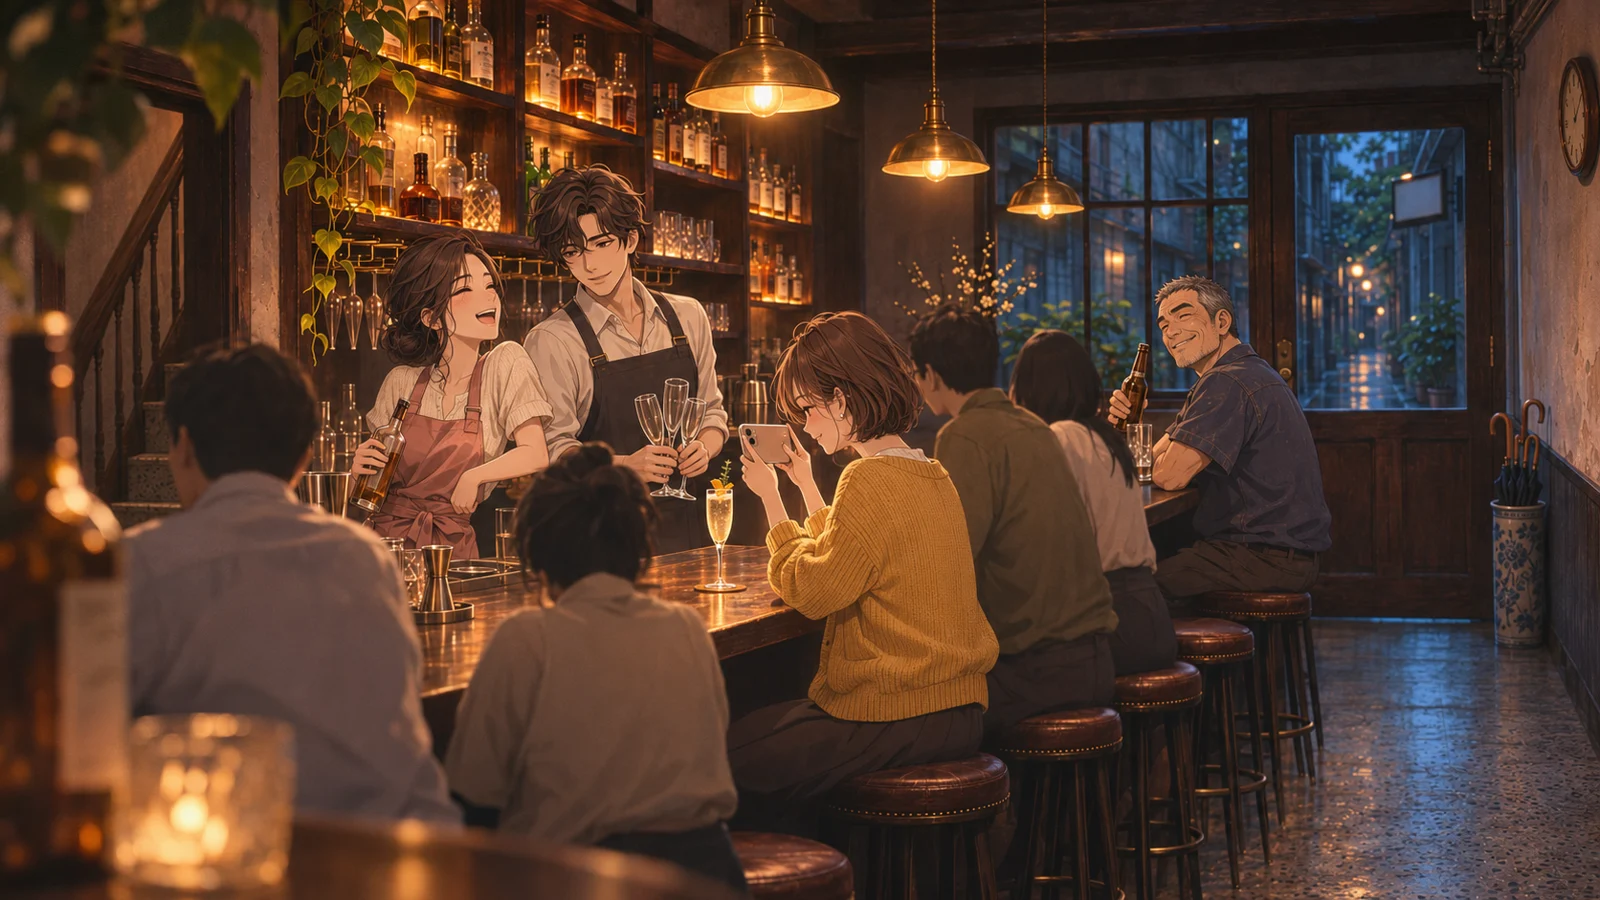
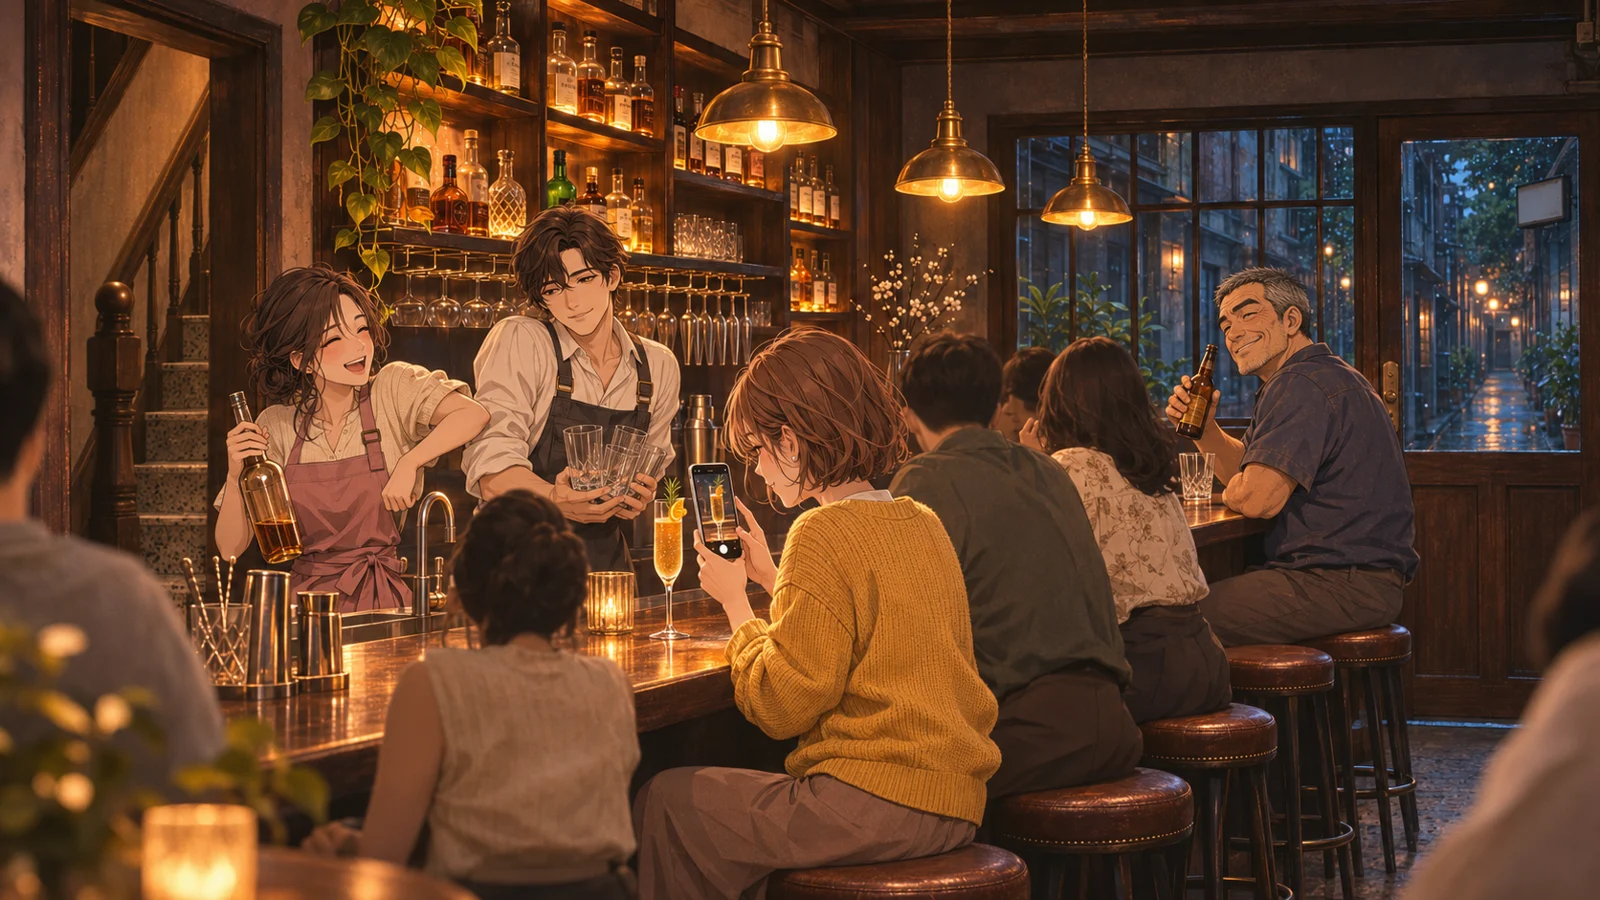
CG：open_busy 重畫，小葵拍酒的手機螢幕朝自己、鏡頭朝酒杯（作者 11-12：手機正反面拿反）

diff --git a/art/v5/shots.py b/art/v5/shots.py
@@ -44,7 +44,7 @@ WARM = 'Warm amber and gold light, a memory of good days.'
 COLD = 'Cold blue room, one pool of warm lamp light; the seventh night after her death; still and hollow.'
 # 鏡頭：(在場 [角色鍵], 場景鍵或 None, [道具鍵], 畫面)
 S = {
- 'open_busy': (['anya_summer', 'shen_apron', 'azhong', 'xiaokui'], 'bar', [], 'A summer Friday night, the bar full and loud: all seven stools taken (other regulars are soft-focus backs and shoulders). Behind the narrow counter ANYA and SHEN work squeezed side by side: she is mid-laugh, nudging him with her elbow, a bottle in her right hand; he carries a few empty glasses. AH-ZHONG sits on the stool nearest the door with a beer bottle and an empty glass; XIAO-KUI sits mid-counter holding up her phone to photograph her drink. ' + WARM),
+ 'open_busy': (['anya_summer', 'shen_apron', 'azhong', 'xiaokui'], 'bar', [], 'A summer Friday night, the bar full and loud: all seven stools taken (other regulars are soft-focus backs and shoulders). Behind the narrow counter ANYA and SHEN work squeezed side by side: she is mid-laugh, nudging him with her elbow, a bottle in her right hand; he carries a few empty glasses. AH-ZHONG sits on the stool nearest the door with a beer bottle and an empty glass; XIAO-KUI sits mid-counter photographing her drink with her smartphone: she holds the phone upright between herself and the glass, the lit SCREEN faces her (and us, we see the drink shown on the screen), and the BACK of the phone with its camera lenses points away from her toward the glass. ' + WARM),
  'open_laugh': (['anya_summer', 'shen_apron', 'azhong', 'xiaokui'], 'bar', ['dawn'], 'Behind the counter ANYA, laughing, slides a flute across the counter toward SHEN, who stands next to her wiping his hands, his hand stopping beside the stem. Across the counter XIAO-KUI and AH-ZHONG watch them, grinning. The pendant lamps light all four faces. Medium shot from the customer side. ' + WARM),
  'return_closed': (['shen_seventh'], 'bar_night', [], 'SHEN stands alone on the customer side of the counter under the single lit lamp, his palm resting on a plain white unsealed envelope with the outline of a key inside. All seven stools are empty. Wide shot, he is small in the frame. ' + COLD),
  'return_water': (['shen_seventh'], 'bar_night', [], 'SHEN sits on a stool at the counter under the single lamp, one hand around half a glass of plain water, a closed palm-sized notebook lying by his other hand. The six other stools are empty in blue light. Rain on the window. Medium side shot. ' + COLD),
